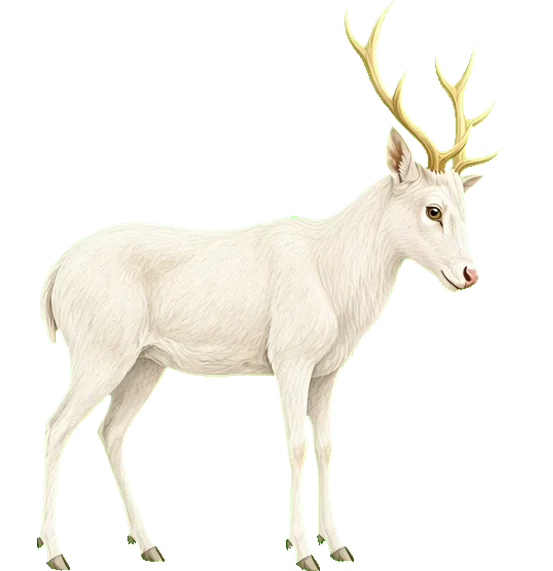
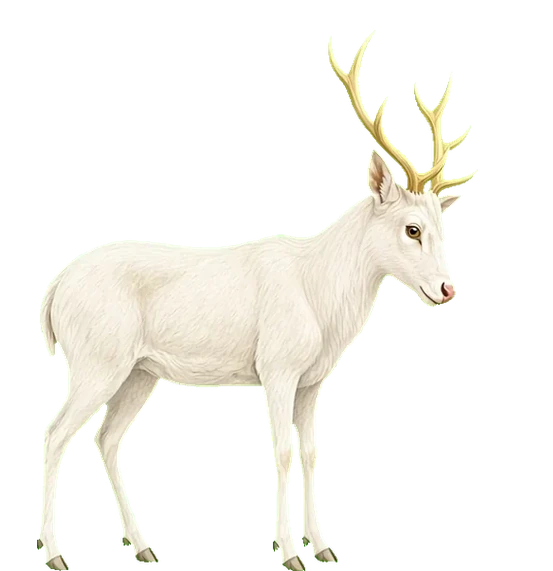
Srovnat velikost jelena ve snímcích při rozhovoru
Snímky 1 a 2 stojícího jelena měly tělo o 6 % větší než 0 a 3, takže
jelen při rozhovoru bobtnal. Zmenšené ukotvené na kopyta a zadek, tělo
je teď ve všech čtyřech stejné. Nová verze obrázků obejde mezipaměť.

Claude-Session: https://claude.ai/code/session_01HvbWHoqHLJQwfRFFMYyRvu

diff --git a/src/game/runner.ts b/src/game/runner.ts
@@ -258,7 +258,7 @@ function hash(n: number): number {
   return x - Math.floor(x);
 }
 
-const ART_REV = "31";
+const ART_REV = "32";
 
 async function loadImage(src: string): Promise<HTMLImageElement | null> {
   try {
